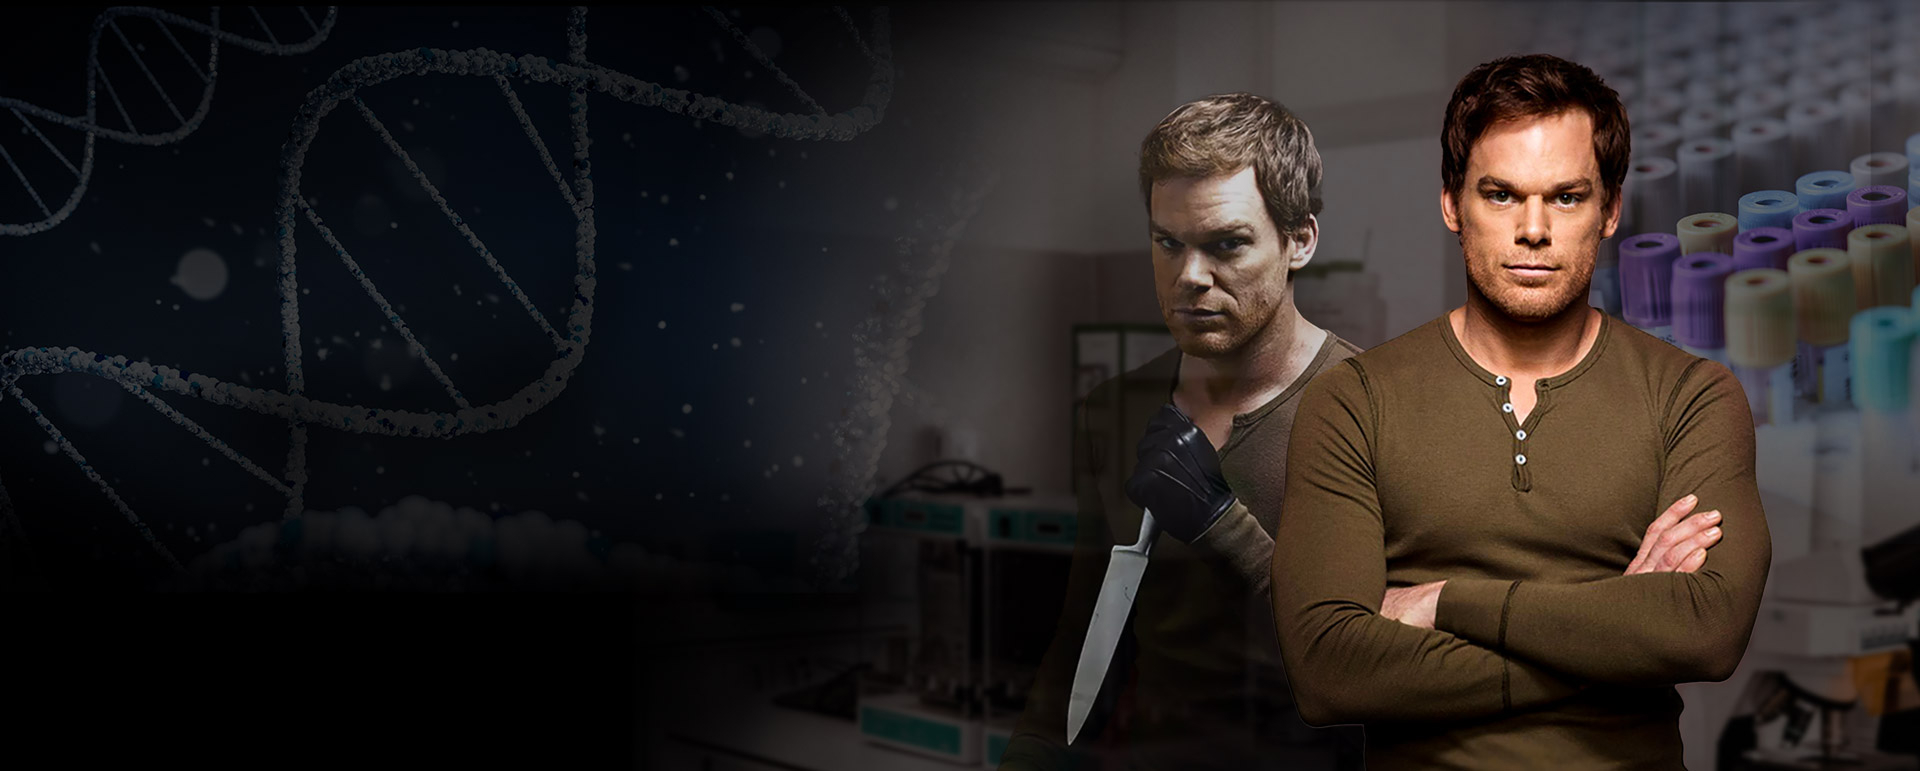
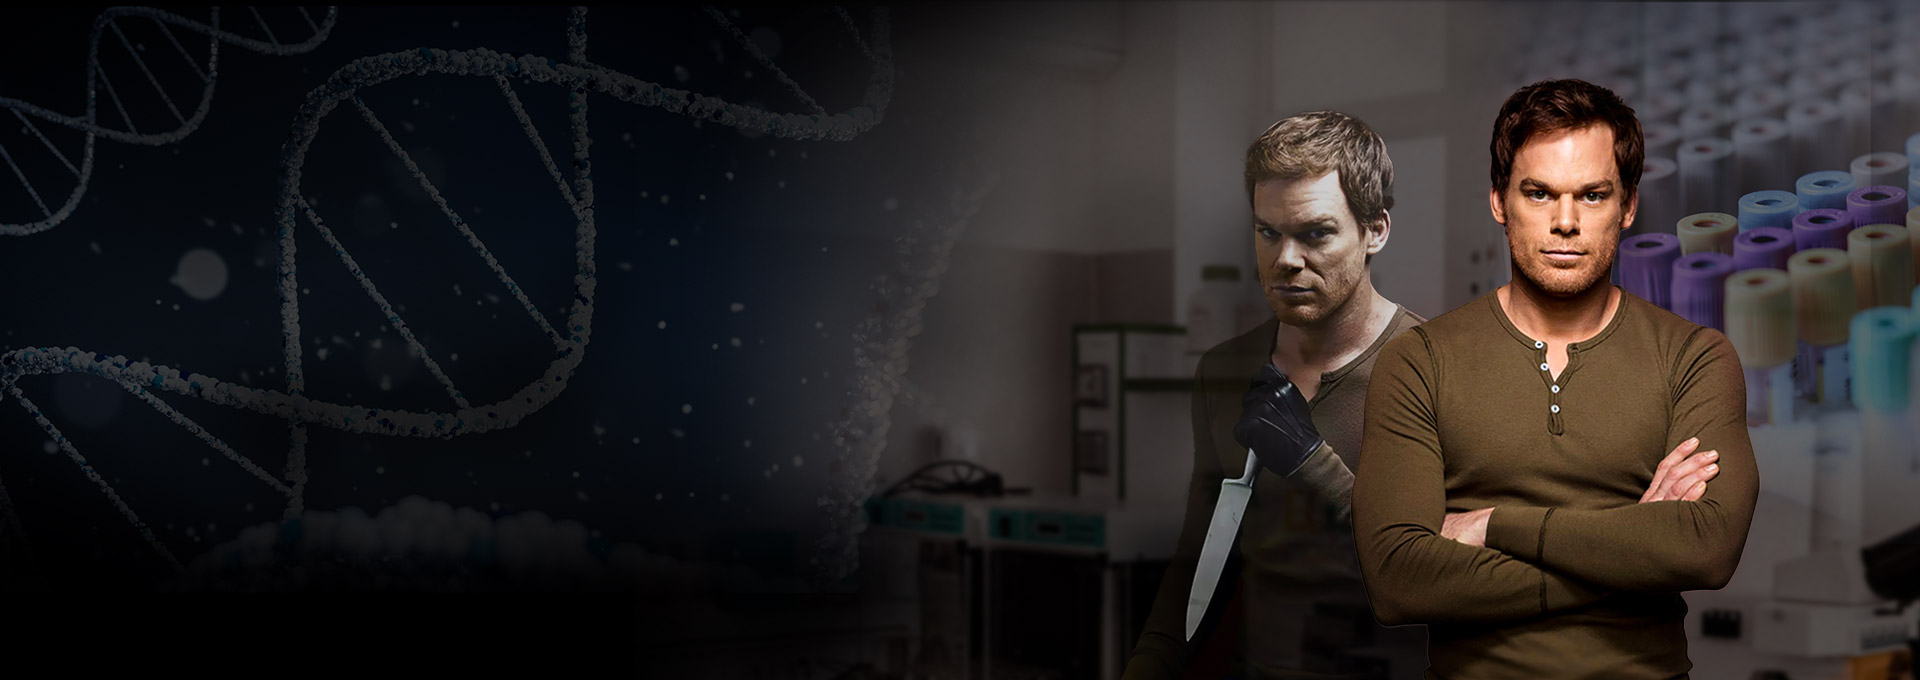
ajustes-1

diff --git a/css/secao2.css b/css/secao2.css
@@ -5,8 +5,12 @@
 .alvo {
   display: flex;
   padding-top: 120px;
-  padding-bottom: 120px;
+  padding-bottom: 80px;
   justify-content: space-between;
+}
+
+.dexter-alvo img {
+  border-radius: 5px;
 }
 
 .alvo-lista {
@@ -29,18 +33,18 @@
   background-image: url("/img/icons/check.svg");
   position: absolute;
   left: -35px;
-  top: 18px;
+  top: 16px;
 }
 
 
 .alvo-lista li:first-child {
-  margin-bottom: 10px;
+  margin-bottom: 20px;
   padding-top: 10px;
 
 }
 
 .alvo-lista li + li {
   border-top: 1px solid #e31e38;
-  margin-bottom: 10px;
+  margin-bottom: 20px;
   padding-top: 10px;
 }

diff --git a/css/secao1.css b/css/secao1.css
@@ -3,7 +3,7 @@
   background-repeat: no-repeat;
   background-size: cover;
   background-position: top;
-  height: 770px;
+  height: 680px;
 }
 
 .header {
@@ -11,12 +11,12 @@
 }
 
 .header h1 {
-  margin: 40px 0 20px 0;
+  margin: 40px 0 10px 0;
   max-width: 700px;
 }
 
 .header p {
-  margin-bottom: 60px;
+  margin-bottom: 50px;
   max-width: 600px;
 }
 

diff --git a/css/tipografia.css b/css/tipografia.css
@@ -29,7 +29,7 @@
 
 /*PARAGRAFO*/
 .p1 {
-  font: 400 1.5rem/1.5 "Montserrat", sans-serif;
+  font: 400 1.125rem/1.5 "Montserrat", sans-serif;
   color: #ededed;
 }
 .p2-s {

diff --git a/css/secao3.css b/css/secao3.css
@@ -7,7 +7,7 @@
 
 .feedback h1 {
   text-align: center;
-  padding-top: 60px;
+  padding-top: 40px;
   padding-bottom: 40px;
 }
 
